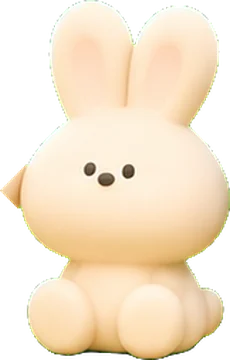
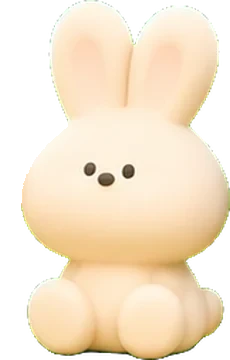
v3.25：軟萌動物園 三花貓、綿羊、兔兔臉頰修好
Claude-Session: https://claude.ai/code/session_012PDdvnhE24eNTsBZcuKnj2

Changed region(s): [[0.0, 0.4278, 0.1522, 0.5806]]

diff --git a/index.html b/index.html
@@ -5670,7 +5670,7 @@ const bbSer=sid=>bbAll().find(x=>x.id===+sid);
 const bbId=(sid,i)=>`bb${sid}_${String(i+1).padStart(2,'0')}`;
 // v2.86：圖片偶爾沒載到（網路斷一下）會變成破圖：自動重抓兩次，還是不行就先藏起來，不顯示破圖
 function imgRetry(im){const n=+(im.dataset.rt||0);if(n>=2){im.style.visibility='hidden';return}im.dataset.rt=n+1;const u=im.src.replace(/([?&])rt=\d+/,'').replace(/[?&]$/,'');setTimeout(()=>{im.src=u+(u.includes('?')?'&':'?')+'rt='+(n+1)},600*(n+1))}
-const bbImg=(sid,i)=>{const S=bbSer(sid);return S&&Array.isArray(S.img)&&S.img[i]?S.img[i]:`assets/${bbId(sid,i)}.webp${sid===46&&(i===3||i===4)?'?v=3':sid>=29&&sid<=48?'?v=2':''}`};   // v3.20：29～48 重切過（被切到的耳朵、邊邊補回來），讓手機重抓
+const bbImg=(sid,i)=>{const S=bbSer(sid);return S&&Array.isArray(S.img)&&S.img[i]?S.img[i]:`assets/${bbId(sid,i)}.webp${(sid===46&&(i===3||i===4))||(sid===45&&i>=1&&i<=3)?'?v=3':sid>=29&&sid<=48?'?v=2':''}`};   // v3.20：29～48 重切過（被切到的耳朵、邊邊補回來），讓手機重抓
 const bbBox=sid=>{const S=bbSer(sid);return S&&S.box?S.box:`assets/bb${sid}_box.webp`};
 function bbRegister(){bbAll().filter(S=>!S.off).forEach(S=>S.f.forEach((n,i)=>{if((S.x||[]).includes(i))return;ITEMS[bbId(S.id,i)]={name:n,emo:'🎁',kind:'fig',price:0,img:bbImg(S.id,i),bb:S.id}}))}
 bbRegister();
@@ -7294,7 +7294,7 @@ function announceLetters(){if(!DB.me)return;let seen=[];try{seen=JSON.parse(loca
     sfx('gift');$('#lgopen').onclick=()=>openLetter(nw[0].id,()=>$('#bell').click())};
   setTimeout(go,1800)}
 // ================= 自動更新：發現新版本就重新載入 =================
-const APP_VER='v3.24';
+const APP_VER='v3.25';
 function checkUpdate(){
   if(!/^https?:/.test(location.protocol)||!API_URL)return;
   if(!$('#modal').classList.contains('hidden'))return; // 正在填表單時不打斷

diff --git a/CLAUDE.md b/CLAUDE.md
@@ -31,7 +31,8 @@
 - commit 訊息結尾加 Co-Authored-By 與 Claude-Session 行；不要在 commit / PR 寫模型名稱。
 
 ## 目前狀態（2026-11）
-- 前端 v3.24、後端 v79（都已上線，2026-11-28）。
+- 前端 v3.25、後端 v79（都已上線，2026-11-28）。
+- v3.25：盲盒 45 三花貓（bb45_02）兩邊臉頰、綿羊（bb45_03）左尖角＋右缺口、兔兔（bb45_04）左尖角修好（鏡射／照輪廓補，scratchpad fix45b.py），`?v=3`。其他 29～48 系列目測沒看到同樣問題。
 - v3.24：盲盒 46 吊帶兔兔（bb46_04）右臉頰被切掉一塊 → 用左半邊鏡射補回；貝蕾帽綿羊（bb46_05）左邊黏到的兔子臉頰尖角拿掉；這兩張 `?v=3`。
 - v3.23：新增 142 款帽子配件 `acc_h1_01～h6_22`（6 張綠幕表，島主打叉的跳過；136 頭、6 臉），`nw:1` 服飾店排前面、標「新」（`.accnw`）。NY 兩頂（h4_01、h5_09）像洋基商標，問過島主要不要換，還沒回。
 - v3.22：房間上排最左邊加房子圖示按鈕 `.rhome`（icon_home），一鍵回一樓（上一間已經是一樓時不加）。
